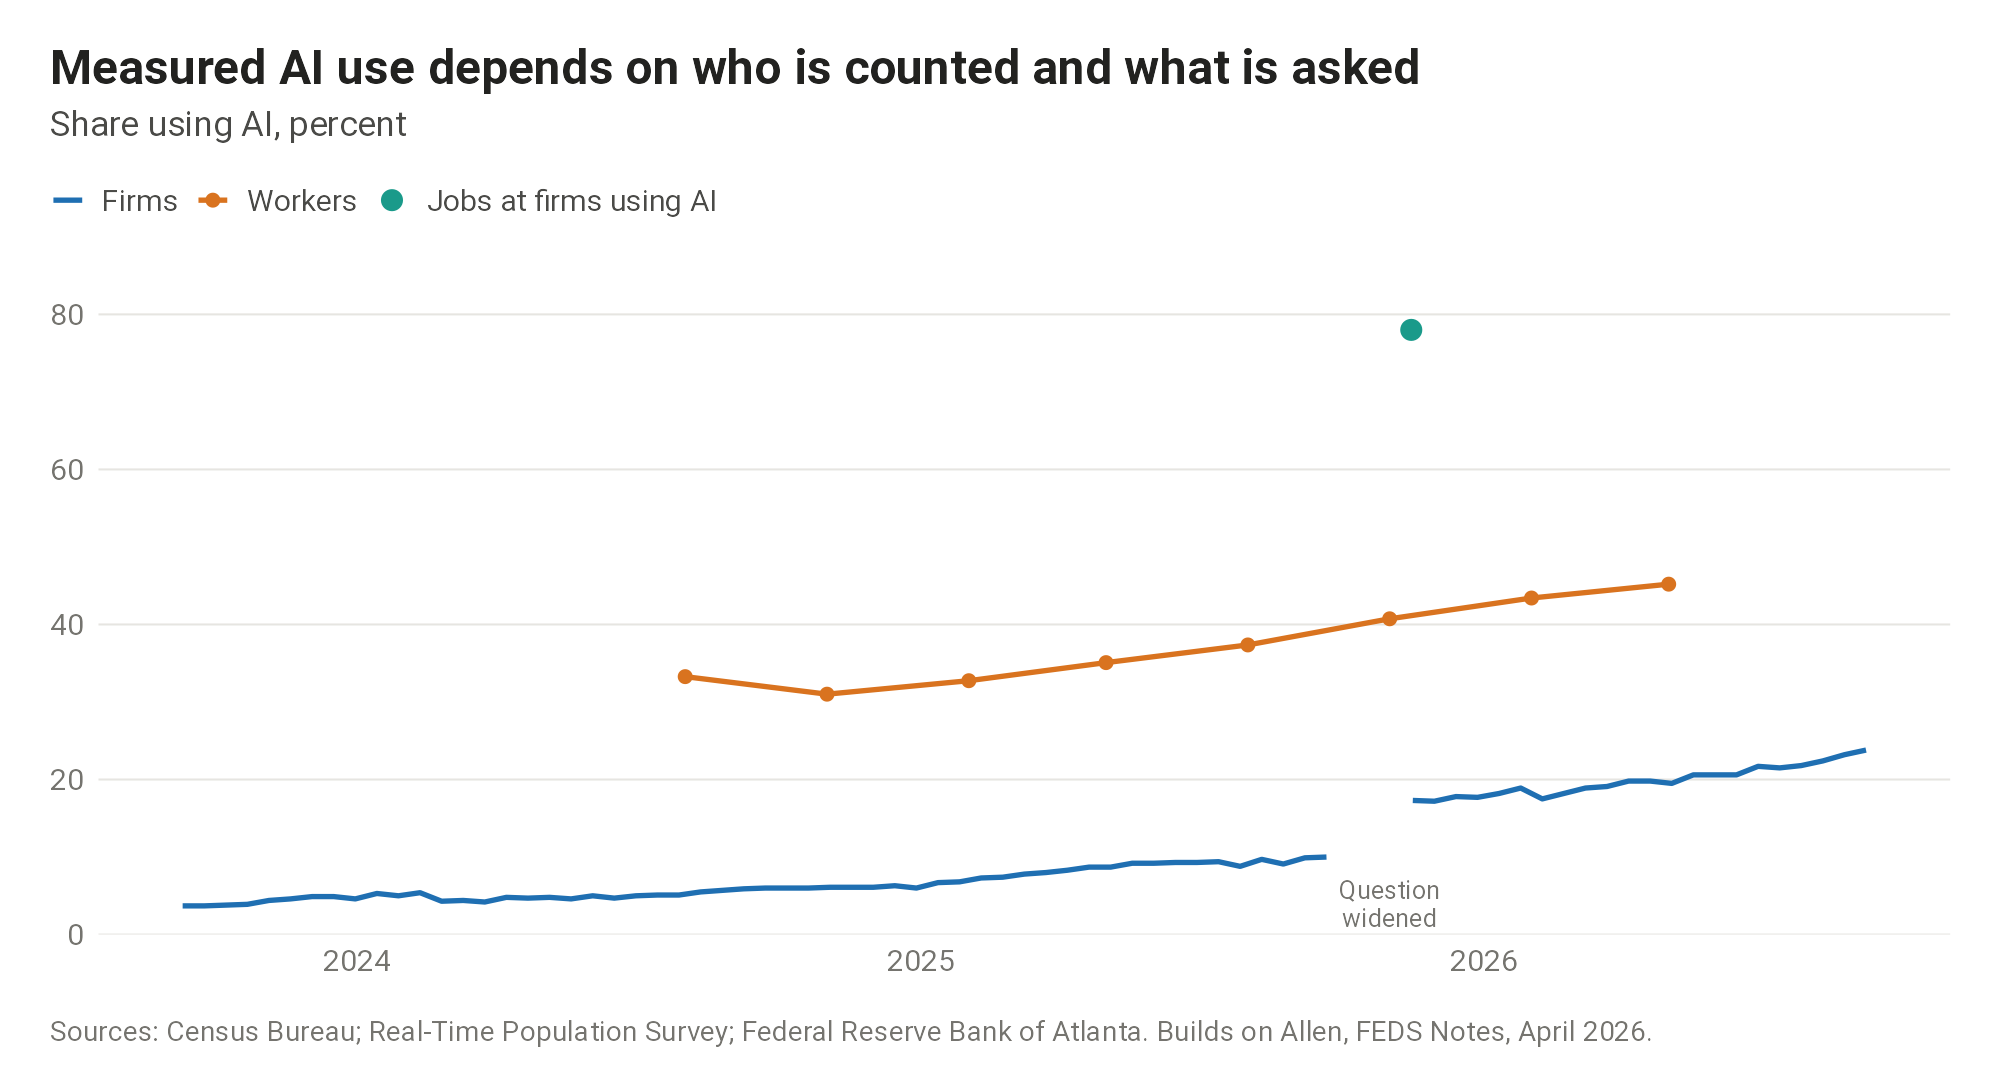
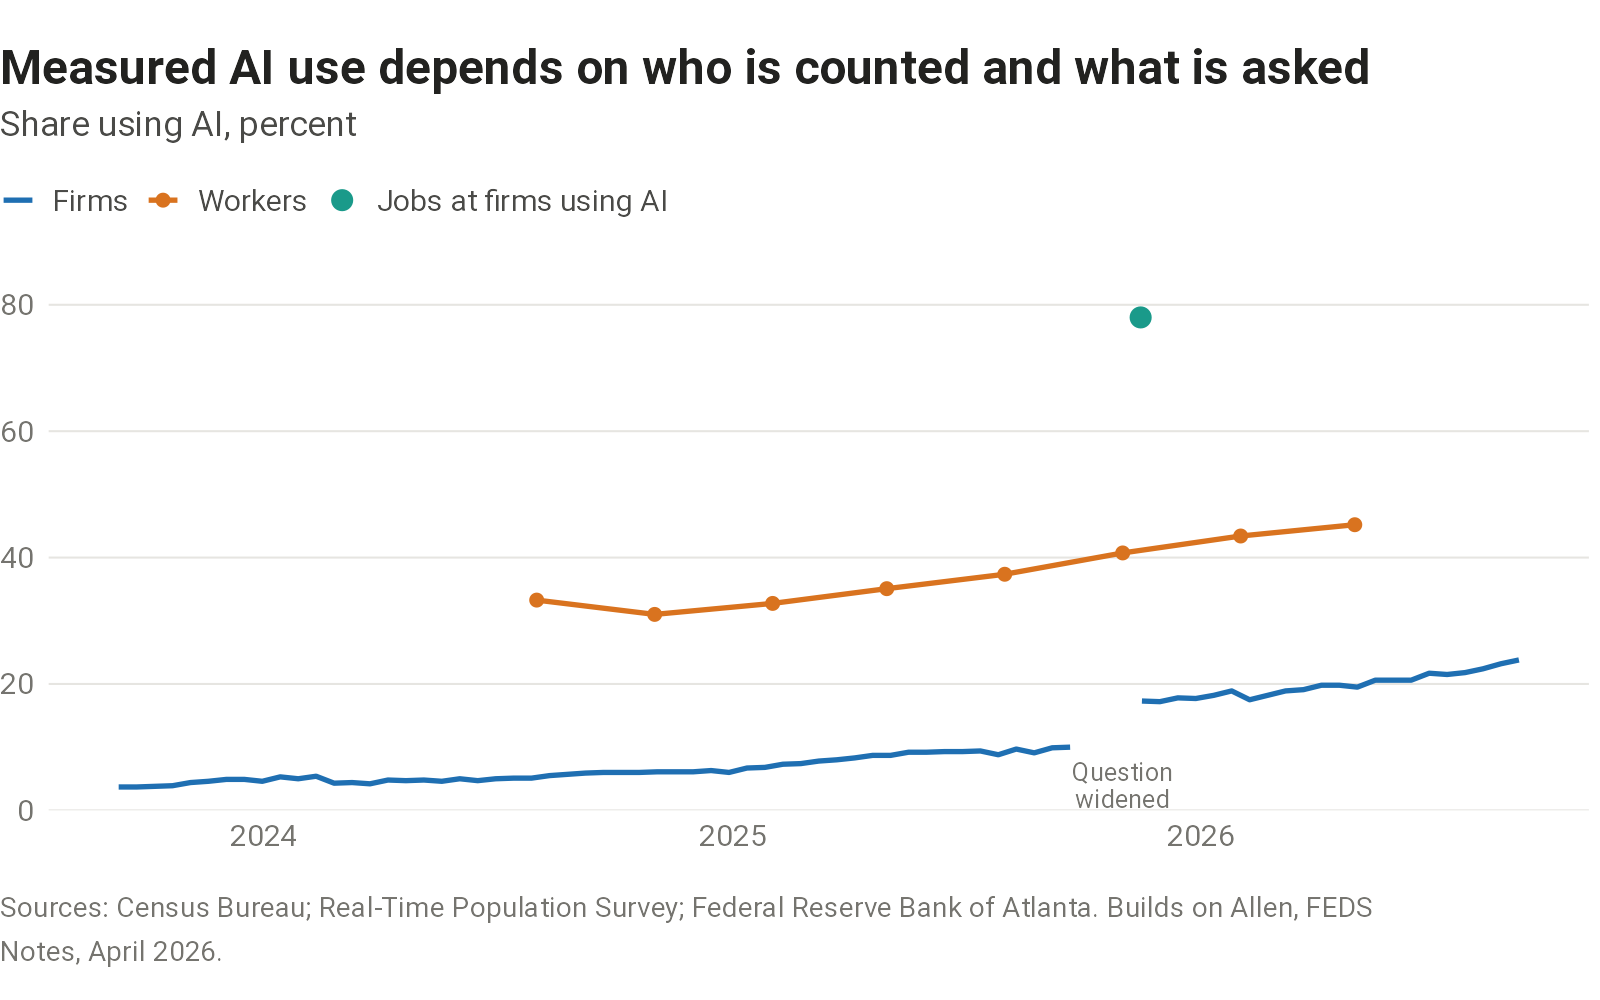
Match chart width to the text column
Charts sat in a wider page column than the text around them. They now
use the text column, drawn 8 inches wide instead of 10 so their text
keeps its size, with no side margin so the chart title lines up with
the page text. Legends that no longer fit on one line put the dot on a
second line, aligned left.

Claude-Session: https://claude.ai/code/session_01C4kQtTHdakDNHHerQuEFwM

diff --git a/STYLE.md b/STYLE.md
@@ -73,9 +73,9 @@ Roboto, Datawrapper's default. It has lining, tabular figures, so numbers align.
 - Horizontal gridlines only, in light grey. No axis lines or tick marks.
 - A darker zero line when values go negative.
 - Legend at the top left, above the plot.
-- Title, subtitle, legend, and source line align with the left edge of the image, not the plot panel.
+- Title, subtitle, legend, and source line align with the left edge of the image, not the plot panel. The image has no side margin, and the page shows it at the width of the text column, so the chart's title lines up with the text above and below it. At about 800 pixels, an 8-inch image keeps its text at the size it was drawn.
 - White background. Saved as PNG with `ragg` at 200 dpi.
-- Every chart is saved twice: a wide version, 10 inches across, for desktops, and a narrow version, 4.2 inches across and named `*-narrow.png`, which the site shows on screens up to 600 pixels wide. `chart_labels()` wraps the title, subtitle, and source line to fit each width. The narrow version stacks its legend in one column.
+- Every chart is saved twice: a wide version, 8 inches across, for desktops, and a narrow version, 4.2 inches across and named `*-narrow.png`, which the site shows on screens up to 600 pixels wide. `chart_labels()` wraps the title, subtitle, and source line to fit each width. The narrow version stacks its legend in one column.
 
 ## Sources
 
